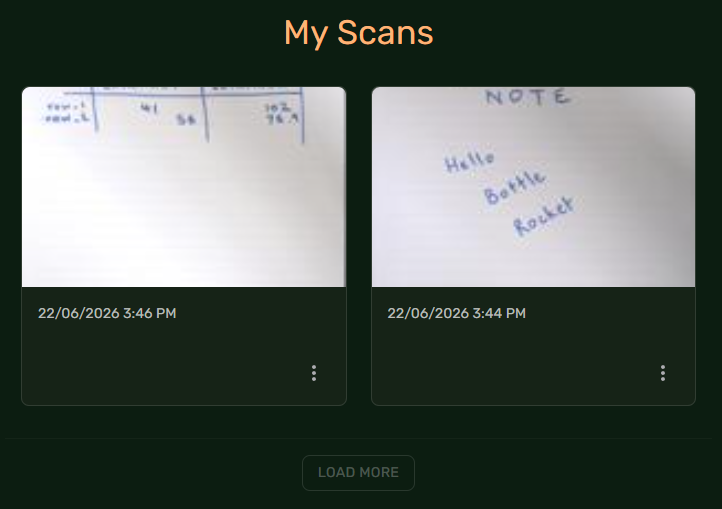
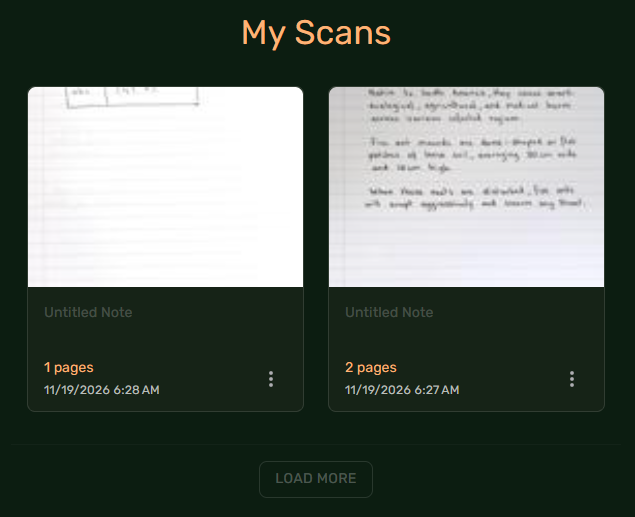
docs: updated scans pages to reflect batching #51

diff --git a/src/docs/docs-general/using-your-server/viewing-your-scans.md b/src/docs/docs-general/using-your-server/viewing-your-scans.md
@@ -16,6 +16,7 @@ Bottle Rocket uses local storage to store copies of scanned images received via 
 * If your Bottle Rocket app has been able to successfully send scans to this server, they
 should appear here. 
 * For convention, they are sorted by date, with the most recent captures appearing first.
+* Each entry will detail the number of pages, the capture date, as well as any [title that has been applied](../workflow-features/retitling-files.md) to the document.
 
 <div class="text--center">
 ![My Scans](/img/myScansOverview.png)
@@ -29,10 +30,16 @@ should appear here.
 Deletion is **permanent** and cannot be undone.
 :::
 
+## Scan details
+The details screen contains the entire set of scans for a given batch.
+
 <div class="text--center">
 ![My Scans](/img/scanDetailsOverview.png)
 </div>
 
-## Manually triggering a workflow
-You can use this page to trigger a [workflow](../configure-your-server/workflows#what-are-workflows) 
+For each scanned image:
+* Click the image to bring up a full-sized display of the image that was captured.
+* Click the **download** icon to the right of the image to download the captured image to your local file system.
+* Click the **trash / delete** icon to the right of the image to confirm deletion of the image.
+* You can use this page to trigger a [workflow](../configure-your-server/workflows#what-are-workflows)
 that you have set up previously by selecting it from the _Workflow_ dropdown and clicking the **Run Workflow** button.
